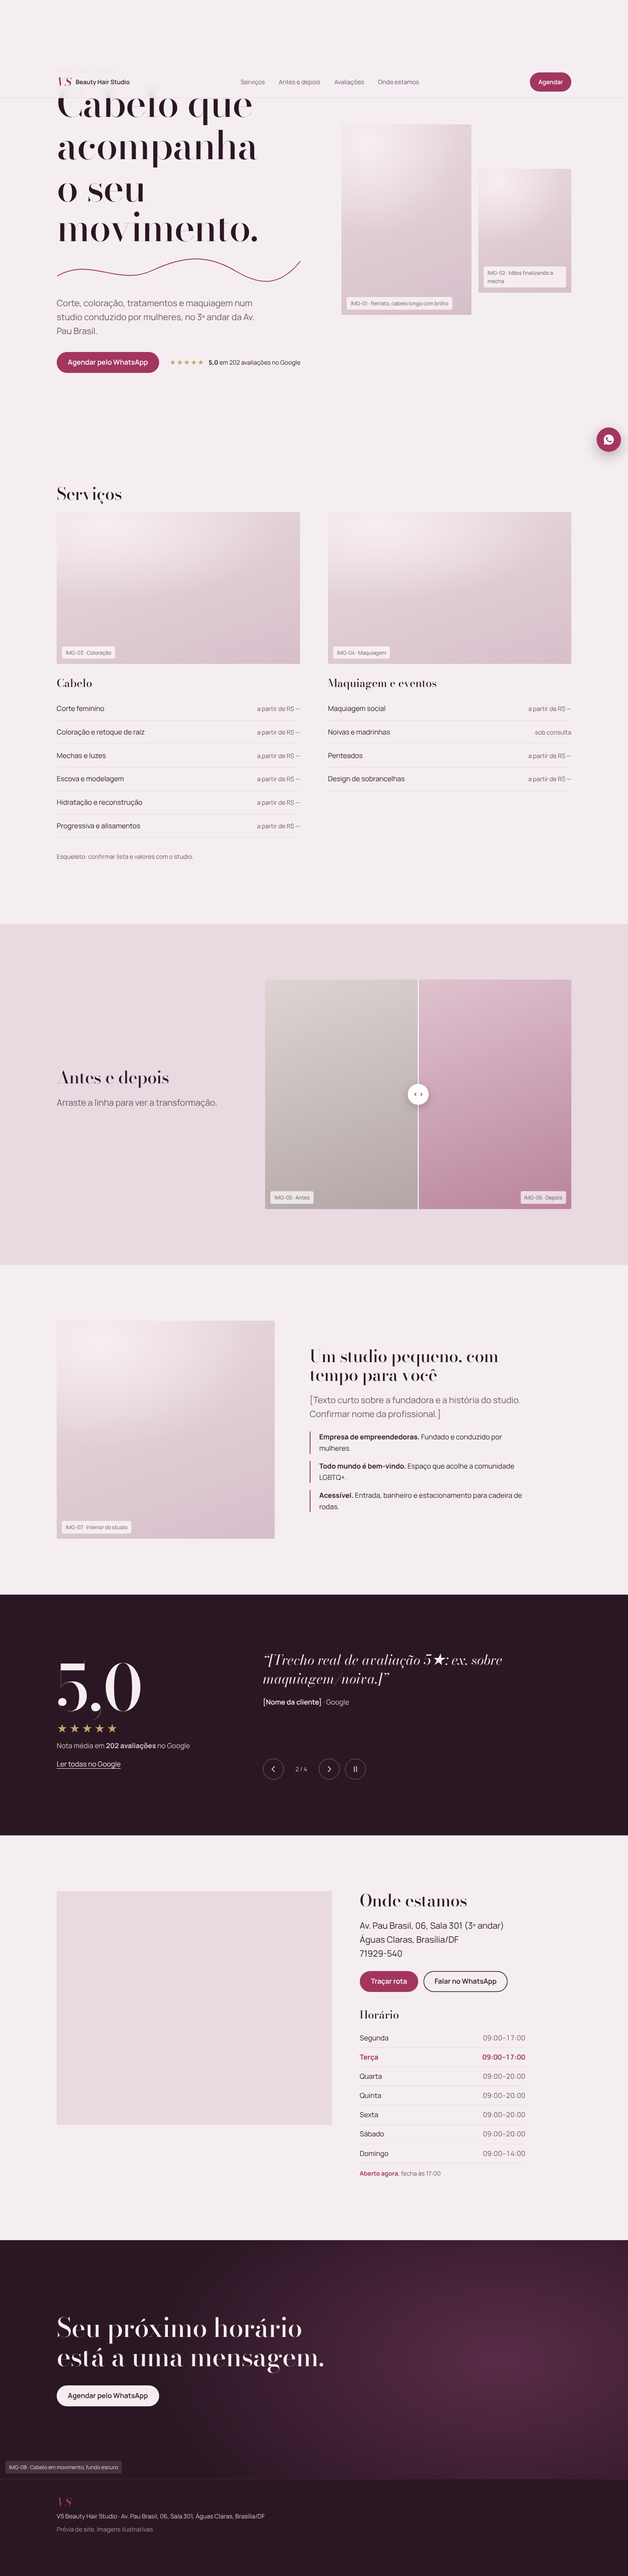
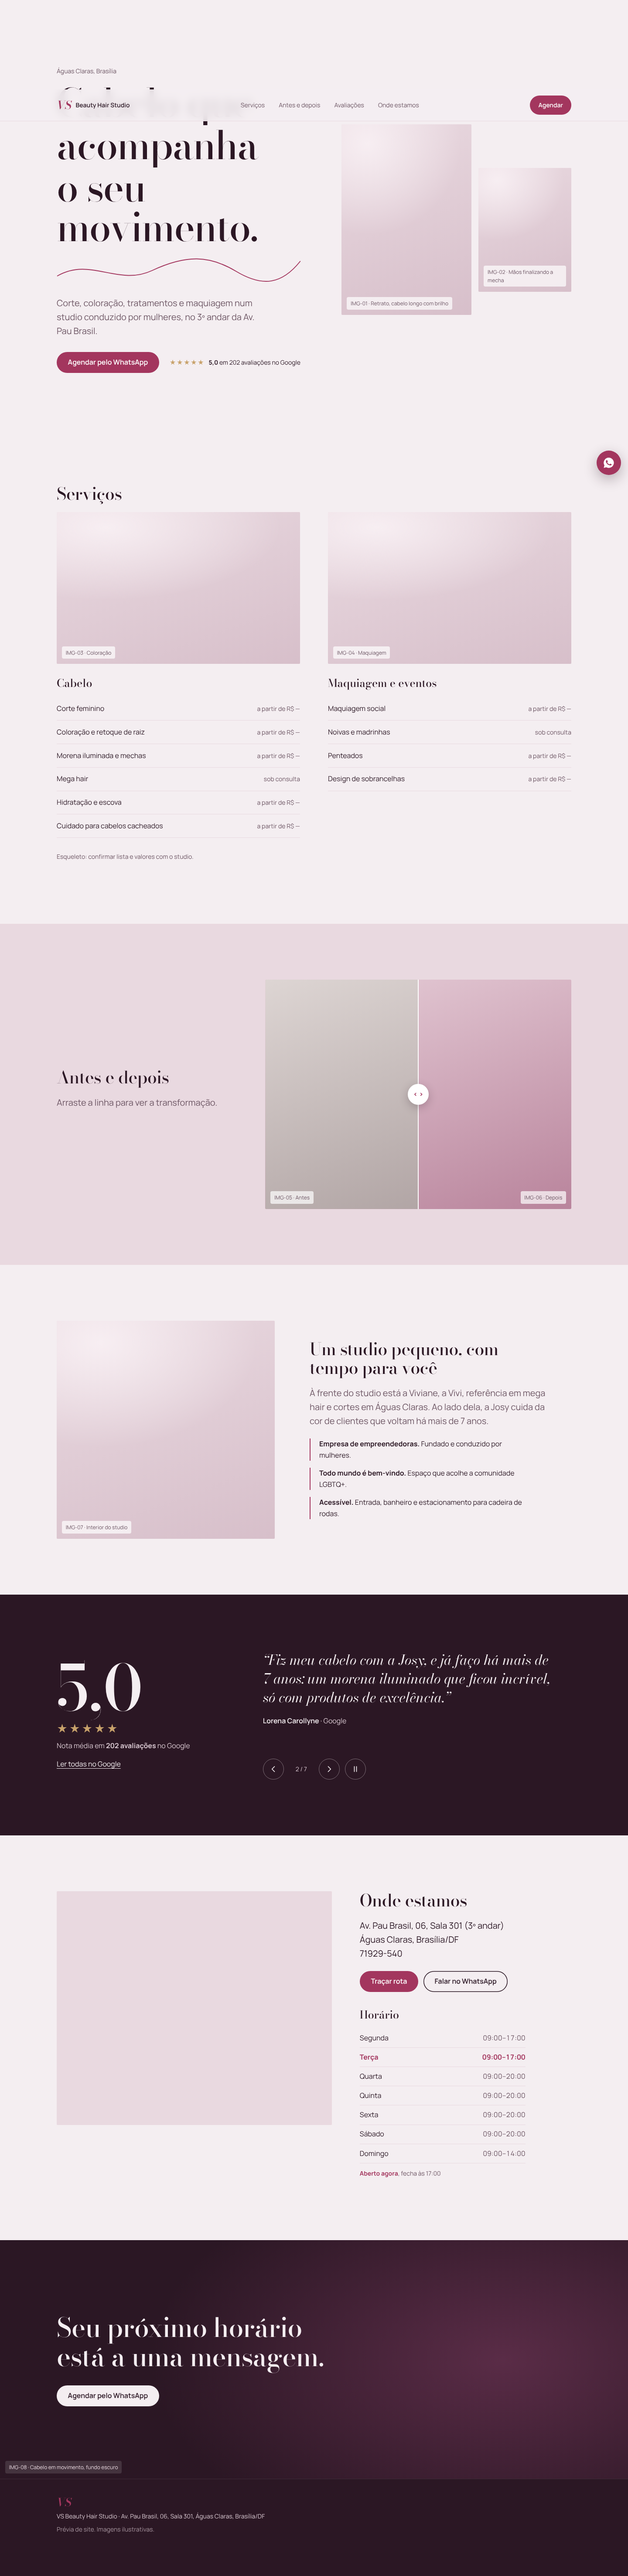
Adiciona WhatsApp, avaliações reais e equipe na prévia VS Beauty
Links de WhatsApp apontam para (61) 99959-0059 com mensagem pronta.
Carrossel com 7 avaliações reais do Google. Serviços e texto do Sobre
ajustados com o que as avaliações citam (Vivi, Josy, mega hair, morena
iluminada, cachos).

Claude-Session: https://claude.ai/code/session_01RJ92JoP1Ceq6xeLWre5zdL

diff --git a/vs-beauty-hair-studio/index.html b/vs-beauty-hair-studio/index.html
@@ -26,7 +26,7 @@
         <a href="#avaliacoes">Avaliações</a>
         <a href="#onde">Onde estamos</a>
       </nav>
-      <a class="btn btn-small" href="https://wa.me/message/HHQNMkODQk4FUB1" target="_blank" rel="noopener">Agendar</a>
+      <a class="btn btn-small" href="https://wa.me/5561999590059?text=Ol%C3%A1%21%20Vi%20o%20site%20e%20quero%20agendar%20um%20hor%C3%A1rio." target="_blank" rel="noopener">Agendar</a>
     </div>
   </header>
 
@@ -48,7 +48,7 @@
           </svg>
           <p class="hero-sub">Corte, coloração, tratamentos e maquiagem num studio conduzido por mulheres, no 3º andar da Av. Pau Brasil.</p>
           <div class="hero-actions">
-            <a class="btn" href="https://wa.me/message/HHQNMkODQk4FUB1" target="_blank" rel="noopener">Agendar pelo WhatsApp</a>
+            <a class="btn" href="https://wa.me/5561999590059?text=Ol%C3%A1%21%20Vi%20o%20site%20e%20quero%20agendar%20um%20hor%C3%A1rio." target="_blank" rel="noopener">Agendar pelo WhatsApp</a>
             <a class="rating-chip" href="#avaliacoes">
               <span class="stars" aria-hidden="true">★★★★★</span>
               <span><strong>5,0</strong> em 202 avaliações no Google</span>
@@ -77,10 +77,10 @@
             <ul class="service-list">
               <li><span>Corte feminino</span><span class="dots"></span><span class="price">a partir de R$ —</span></li>
               <li><span>Coloração e retoque de raiz</span><span class="dots"></span><span class="price">a partir de R$ —</span></li>
-              <li><span>Mechas e luzes</span><span class="dots"></span><span class="price">a partir de R$ —</span></li>
-              <li><span>Escova e modelagem</span><span class="dots"></span><span class="price">a partir de R$ —</span></li>
-              <li><span>Hidratação e reconstrução</span><span class="dots"></span><span class="price">a partir de R$ —</span></li>
-              <li><span>Progressiva e alisamentos</span><span class="dots"></span><span class="price">a partir de R$ —</span></li>
+              <li><span>Morena iluminada e mechas</span><span class="dots"></span><span class="price">a partir de R$ —</span></li>
+              <li><span>Mega hair</span><span class="dots"></span><span class="price">sob consulta</span></li>
+              <li><span>Hidratação e escova</span><span class="dots"></span><span class="price">a partir de R$ —</span></li>
+              <li><span>Cuidado para cabelos cacheados</span><span class="dots"></span><span class="price">a partir de R$ —</span></li>
             </ul>
           </article>
           <article class="service-col" data-reveal>
@@ -121,7 +121,7 @@
         <figure class="ph ph-square" data-img="IMG-07" data-reveal><span class="ph-label">IMG-07 · Interior do studio</span></figure>
         <div>
           <h2 class="h2" id="sobre-t" data-reveal>Um studio pequeno, com tempo para você</h2>
-          <p class="lead" data-reveal>[Texto curto sobre a fundadora e a história do studio. Confirmar nome da profissional.]</p>
+          <p class="lead" data-reveal>À frente do studio está a Viviane, a Vivi, referência em mega hair e cortes em Águas Claras. Ao lado dela, a Josy cuida da cor de clientes que voltam há mais de 7 anos.</p>
           <ul class="facts">
             <li data-reveal><strong>Empresa de empreendedoras.</strong> Fundado e conduzido por mulheres.</li>
             <li data-reveal><strong>Todo mundo é bem-vindo.</strong> Espaço que acolhe a comunidade LGBTQ+.</li>
@@ -144,29 +144,41 @@
 
         <div class="carousel" data-carousel aria-roledescription="carrossel" aria-label="Depoimentos de clientes">
           <div class="carousel-track" aria-live="polite">
-            <!-- Substituir pelos textos reais das avaliações do Google -->
-            <blockquote class="quote is-active" aria-roledescription="slide" aria-label="1 de 4">
-              <p>“[Trecho real de avaliação 5★: ex. sobre coloração/atendimento.]”</p>
-              <footer>[Nome da cliente] <span>· Google</span></footer>
+            <!-- Avaliações reais do Google (resumidas) -->
+            <blockquote class="quote is-active" aria-roledescription="slide">
+              <p>“Amei meu corte com a Vivi! Eu estava morrendo de medo de cortar mais curto, mas ela ouviu direitinho o que eu queria e fez exatamente do jeito que eu imaginei.”</p>
+              <footer>Julia Gadelha <span>· Google</span></footer>
             </blockquote>
-            <blockquote class="quote" aria-roledescription="slide" aria-label="2 de 4">
-              <p>“[Trecho real de avaliação 5★: ex. sobre maquiagem/noiva.]”</p>
-              <footer>[Nome da cliente] <span>· Google</span></footer>
+            <blockquote class="quote" aria-roledescription="slide">
+              <p>“Fiz meu cabelo com a Josy, e já faço há mais de 7 anos: um morena iluminado que ficou incrível, só com produtos de excelência.”</p>
+              <footer>Lorena Carollyne <span>· Google</span></footer>
             </blockquote>
-            <blockquote class="quote" aria-roledescription="slide" aria-label="3 de 4">
-              <p>“[Trecho real de avaliação 5★: ex. sobre o ambiente.]”</p>
-              <footer>[Nome da cliente] <span>· Google</span></footer>
+            <blockquote class="quote" aria-roledescription="slide">
+              <p>“Viviane é simplesmente referência em Mega Hair em Águas Claras! É mais que cabelo, é confiança renovada.”</p>
+              <footer>Paulo Gean Cardoso da Silva <span>· Google</span></footer>
             </blockquote>
-            <blockquote class="quote" aria-roledescription="slide" aria-label="4 de 4">
-              <p>“[Trecho real de avaliação 5★: ex. sobre pontualidade/cuidado.]”</p>
-              <footer>[Nome da cliente] <span>· Google</span></footer>
+            <blockquote class="quote" aria-roledescription="slide">
+              <p>“Melhor atendimento e resultado de Águas Claras! Costumo ter problemas por ter cabelo cacheado, mas a profissional soube manusear perfeitamente.”</p>
+              <footer>Rafaela Almeida <span>· Google</span></footer>
+            </blockquote>
+            <blockquote class="quote" aria-roledescription="slide">
+              <p>“Seu trabalho é impecável, delicado e feito com um cuidado que vai além do cabelo.”</p>
+              <footer>Amanda Lustosa <span>· Google</span></footer>
+            </blockquote>
+            <blockquote class="quote" aria-roledescription="slide">
+              <p>“Ótima profissional, pontual, muito detalhista. O ambiente no salão é muito bom, agradável, tranquilo.”</p>
+              <footer>Izabela Macedo <span>· Google</span></footer>
+            </blockquote>
+            <blockquote class="quote" aria-roledescription="slide">
+              <p>“Sou fiel ao salão e não largo por nada. Melhor salão de Águas Claras e de Brasília.”</p>
+              <footer>Carolina Oliveira <span>· Google</span></footer>
             </blockquote>
           </div>
           <div class="carousel-controls">
             <button class="icon-btn" type="button" data-prev aria-label="Depoimento anterior">
               <svg viewBox="0 0 24 24" aria-hidden="true"><path d="M15 5l-7 7 7 7"/></svg>
             </button>
-            <span class="carousel-count" data-count-label>1 / 4</span>
+            <span class="carousel-count" data-count-label>1 / 7</span>
             <button class="icon-btn" type="button" data-next aria-label="Próximo depoimento">
               <svg viewBox="0 0 24 24" aria-hidden="true"><path d="M9 5l7 7-7 7"/></svg>
             </button>
@@ -195,7 +207,7 @@
           </address>
           <div class="where-actions" data-reveal>
             <a class="btn" href="https://www.google.com/maps/dir/?api=1&destination=-15.839595,-48.0274501&destination_place_id=ChIJ0fMkA0wzWpMRiVcfAucRnAA" target="_blank" rel="noopener">Traçar rota</a>
-            <a class="btn btn-ghost" href="https://wa.me/message/HHQNMkODQk4FUB1" target="_blank" rel="noopener">Falar no WhatsApp</a>
+            <a class="btn btn-ghost" href="https://wa.me/5561999590059?text=Ol%C3%A1%21%20Vi%20o%20site%20e%20quero%20agendar%20um%20hor%C3%A1rio." target="_blank" rel="noopener">Falar no WhatsApp</a>
           </div>
 
           <h3 class="h3">Horário</h3>
@@ -220,7 +232,7 @@
       <figure class="ph ph-bg" data-img="IMG-08"><span class="ph-label">IMG-08 · Cabelo em movimento, fundo escuro</span></figure>
       <div class="wrap cta-inner">
         <h2 class="h2" id="cta-t">Seu próximo horário está a uma mensagem.</h2>
-        <a class="btn btn-light" href="https://wa.me/message/HHQNMkODQk4FUB1" target="_blank" rel="noopener">Agendar pelo WhatsApp</a>
+        <a class="btn btn-light" href="https://wa.me/5561999590059?text=Ol%C3%A1%21%20Vi%20o%20site%20e%20quero%20agendar%20um%20hor%C3%A1rio." target="_blank" rel="noopener">Agendar pelo WhatsApp</a>
       </div>
     </section>
   </main>
@@ -233,7 +245,7 @@
     </div>
   </footer>
 
-  <a class="wa-float" href="https://wa.me/message/HHQNMkODQk4FUB1" target="_blank" rel="noopener" aria-label="Agendar pelo WhatsApp">
+  <a class="wa-float" href="https://wa.me/5561999590059?text=Ol%C3%A1%21%20Vi%20o%20site%20e%20quero%20agendar%20um%20hor%C3%A1rio." target="_blank" rel="noopener" aria-label="Agendar pelo WhatsApp">
     <svg viewBox="0 0 24 24" aria-hidden="true"><path d="M12 2a10 10 0 0 0-8.6 15.1L2 22l5-1.3A10 10 0 1 0 12 2Zm5.2 14.1c-.2.6-1.3 1.2-1.8 1.2-.5.1-1 .2-3.3-.7-2.8-1.1-4.6-4-4.7-4.2-.1-.2-1.1-1.5-1.1-2.9s.7-2 1-2.3c.2-.3.5-.3.7-.3h.5c.2 0 .4 0 .6.5l.8 2c.1.2.1.4 0 .5l-.4.6-.4.4c-.1.1-.3.3-.1.6.2.3.8 1.3 1.7 2.1 1.1 1 2.1 1.3 2.4 1.5.3.1.5.1.6-.1l.9-1c.2-.3.4-.2.6-.1l1.9.9c.3.1.5.2.5.3.1.1.1.7-.2 1.3Z"/></svg>
   </a>
 

diff --git a/vs-beauty-hair-studio/main.js b/vs-beauty-hair-studio/main.js
@@ -56,7 +56,10 @@
 
     const show = (i) => {
       index = (i + slides.length) % slides.length;
-      slides.forEach((s, n) => s.classList.toggle('is-active', n === index));
+      slides.forEach((s, n) => {
+        s.classList.toggle('is-active', n === index);
+        s.setAttribute('aria-label', `${n + 1} de ${slides.length}`);
+      });
       label.textContent = `${index + 1} / ${slides.length}`;
     };
     const stop = () => { clearInterval(timer); timer = null; };

diff --git a/vs-beauty-hair-studio/styles.css b/vs-beauty-hair-studio/styles.css
@@ -217,7 +217,7 @@ figure { margin: 0; }
 .score-label { color: #d9c8d1; margin: 0 0 1rem; }
 .link-light { color: var(--porcelain); text-underline-offset: 4px; }
 
-.carousel-track { position: relative; min-height: 14rem; }
+.carousel-track { position: relative; min-height: 16rem; }
 .quote {
   position: absolute; inset: 0; margin: 0;
   opacity: 0; visibility: hidden; transform: translateY(12px);

diff --git a/vs-beauty-hair-studio/BRIEFING.md b/vs-beauty-hair-studio/BRIEFING.md
@@ -9,7 +9,7 @@
 | Nota | **5,0 ★** com **202 avaliações** |
 | Endereço | Av. Pau Brasil, 06, Sala 301 (3º andar), Águas Claras, Brasília/DF, 71929-540 |
 | Coordenadas | -15.839595, -48.0274501 |
-| WhatsApp | https://wa.me/message/HHQNMkODQk4FUB1 |
+| WhatsApp | (61) 99959-0059 → https://wa.me/5561999590059 |
 | Place ID | ChIJ0fMkA0wzWpMRiVcfAucRnAA |
 | Avaliações | https://search.google.com/local/reviews?placeid=ChIJ0fMkA0wzWpMRiVcfAucRnAA |
 | Selos | Empresa de empreendedoras · Acolhe a comunidade LGBTQ+ |
@@ -23,10 +23,18 @@
 | Quarta a sábado | 09:00–20:00 |
 | Domingo | 09:00–14:00 |
 
+### Equipe e serviços (citados nas avaliações)
+- **Viviane (Vivi):** cortes, mega hair; descrita como pontual e detalhista.
+- **Josy:** coloração, morena iluminada; clientes há mais de 7 anos.
+- Serviços citados: corte, mega hair, morena iluminada, hidratação, escova, cabelo cacheado.
+
+### Avaliações reais usadas no carrossel
+Julia Gadelha, Lorena Carollyne, Paulo Gean Cardoso da Silva, Rafaela Almeida, Amanda Lustosa,
+Izabela Macedo, Carolina Oliveira (trechos resumidos, sem emojis).
+
 ### Ainda falta (preencher antes da prévia final)
-- [ ] Textos de 4 a 6 avaliações reais do Google (nome + trecho). O Maps não libera o texto sem navegador logado.
 - [ ] Instagram oficial (não encontrado na busca).
-- [ ] Lista de serviços confirmada e nome da(s) profissional(is).
+- [ ] Preços dos serviços.
 - [ ] Logo/fotos reais do salão, se houver. Senão, usar as imagens geradas (IMG-01 a IMG-08).
 
 ## Direção de design
